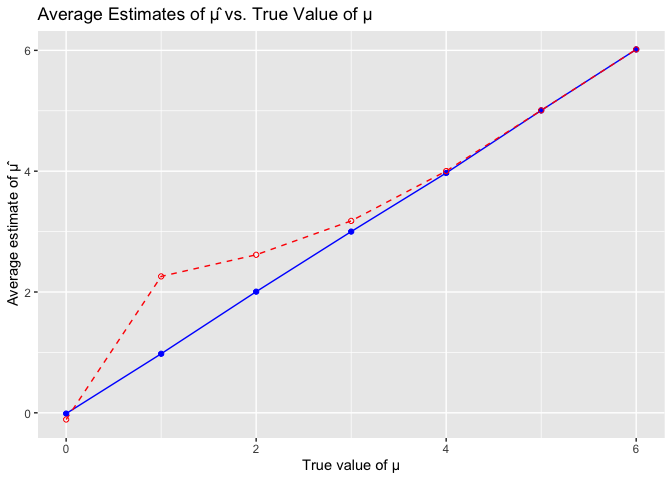
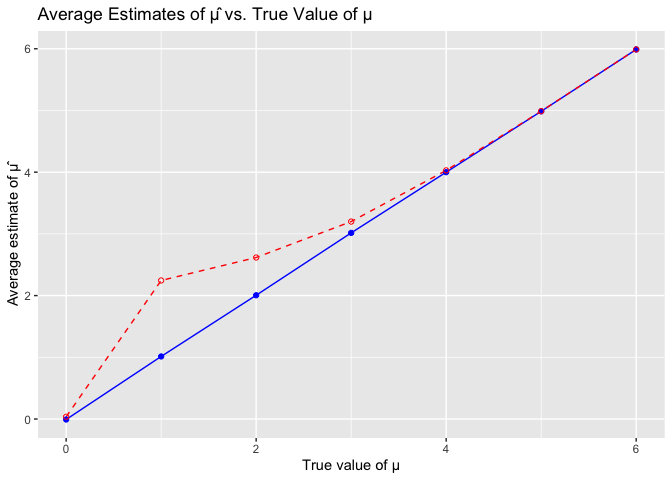
add description to the second plot in problem three

diff --git a/p8105_hw5_xw2962.md b/p8105_hw5_xw2962.md
@@ -301,18 +301,18 @@ print(simulation_results)
 ```
 
     ## # A tibble: 35,000 × 4
-    ##    mu_hat p_value true_mu rejected
-    ##     <dbl>   <dbl>   <dbl> <lgl>   
-    ##  1 -0.757  0.445        0 FALSE   
-    ##  2  0.335  0.693        0 FALSE   
-    ##  3  0.556  0.557        0 FALSE   
-    ##  4 -1.36   0.196        0 FALSE   
-    ##  5 -0.450  0.620        0 FALSE   
-    ##  6  1.29   0.180        0 FALSE   
-    ##  7 -1.54   0.0963       0 FALSE   
-    ##  8 -1.68   0.0829       0 FALSE   
-    ##  9 -0.418  0.549        0 FALSE   
-    ## 10  0.107  0.923        0 FALSE   
+    ##     mu_hat p_value true_mu rejected
+    ##      <dbl>   <dbl>   <dbl> <lgl>   
+    ##  1  0.592    0.514       0 FALSE   
+    ##  2  0.337    0.645       0 FALSE   
+    ##  3  0.0246   0.977       0 FALSE   
+    ##  4 -0.279    0.765       0 FALSE   
+    ##  5  0.498    0.602       0 FALSE   
+    ##  6 -0.966    0.297       0 FALSE   
+    ##  7 -1.10     0.364       0 FALSE   
+    ##  8  0.269    0.774       0 FALSE   
+    ##  9  0.0427   0.961       0 FALSE   
+    ## 10 -0.669    0.482       0 FALSE   
     ## # ℹ 34,990 more rows
 
 ``` r
@@ -329,13 +329,13 @@ print(power_and_estimates)
     ## # A tibble: 7 × 3
     ##   true_mu  power average_mu_hat
     ##     <dbl>  <dbl>          <dbl>
-    ## 1       0 0.0566        -0.0130
-    ## 2       1 0.179          0.977 
-    ## 3       2 0.564          2.01  
-    ## 4       3 0.894          3.00  
-    ## 5       4 0.986          3.97  
-    ## 6       5 1.00           5.01  
-    ## 7       6 1              6.02
+    ## 1       0 0.0526       -0.00824
+    ## 2       1 0.189         1.01   
+    ## 3       2 0.565         2.01   
+    ## 4       3 0.891         3.02   
+    ## 5       4 0.987         4.00   
+    ## 6       5 0.999         4.99   
+    ## 7       6 1.00          5.99
 
 #### Make a plot showing the the power of the test on the y axis and the true value of μ on the x axis.
 
@@ -369,6 +369,12 @@ ggplot(power_and_estimates, aes(x = true_mu, y = average_mu_hat)) +
 ```
 
 ![](p8105_hw5_xw2962_files/figure-gfm/unnamed-chunk-13-1.png)<!-- -->
+
+#### Description.
+
+The analysis indicates that the average estimated mean closely
+corresponds to the true mean, conforming to a relationship that can be
+most accurately described by the linear equation y=x.
 
 #### Make a second plot (or overlay on the first) the average estimate of μ̂ only in samples for which the null was rejected on the y axis and the true value of μ on the x axis.
 
